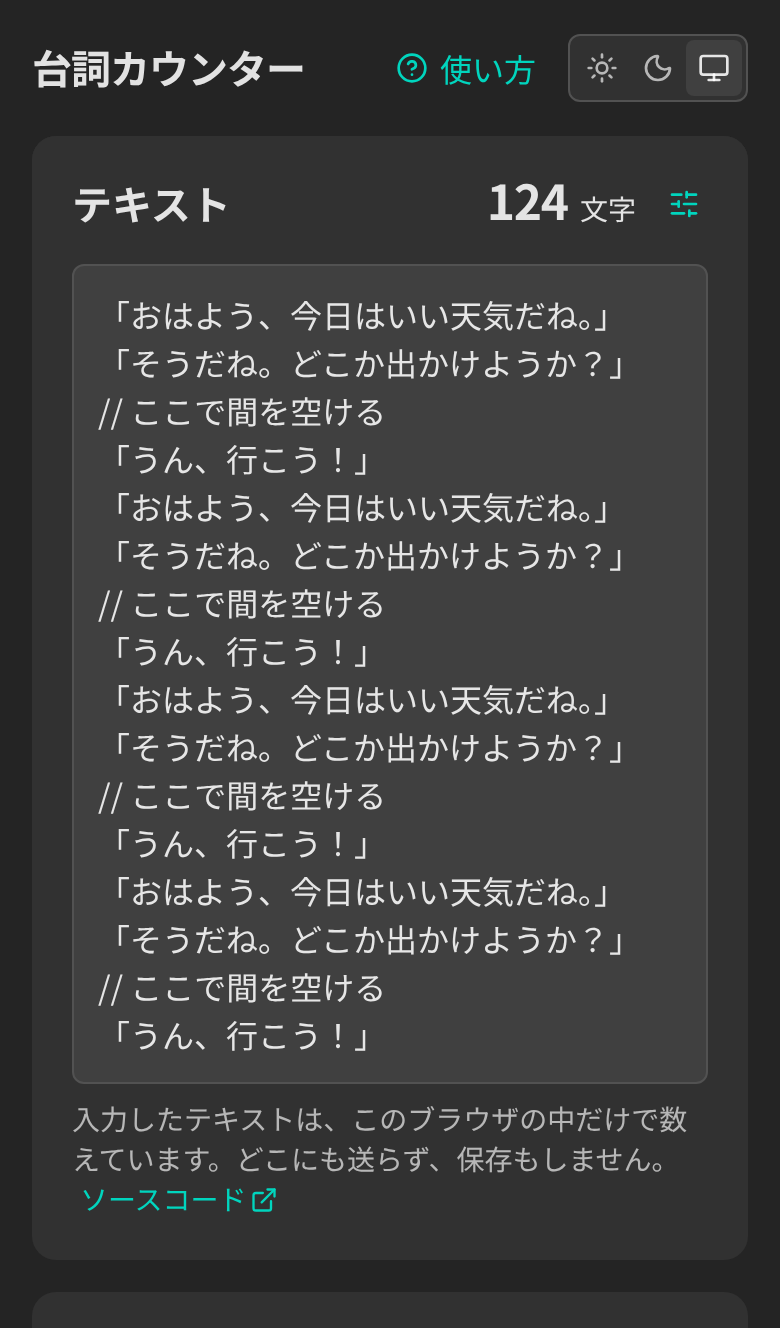
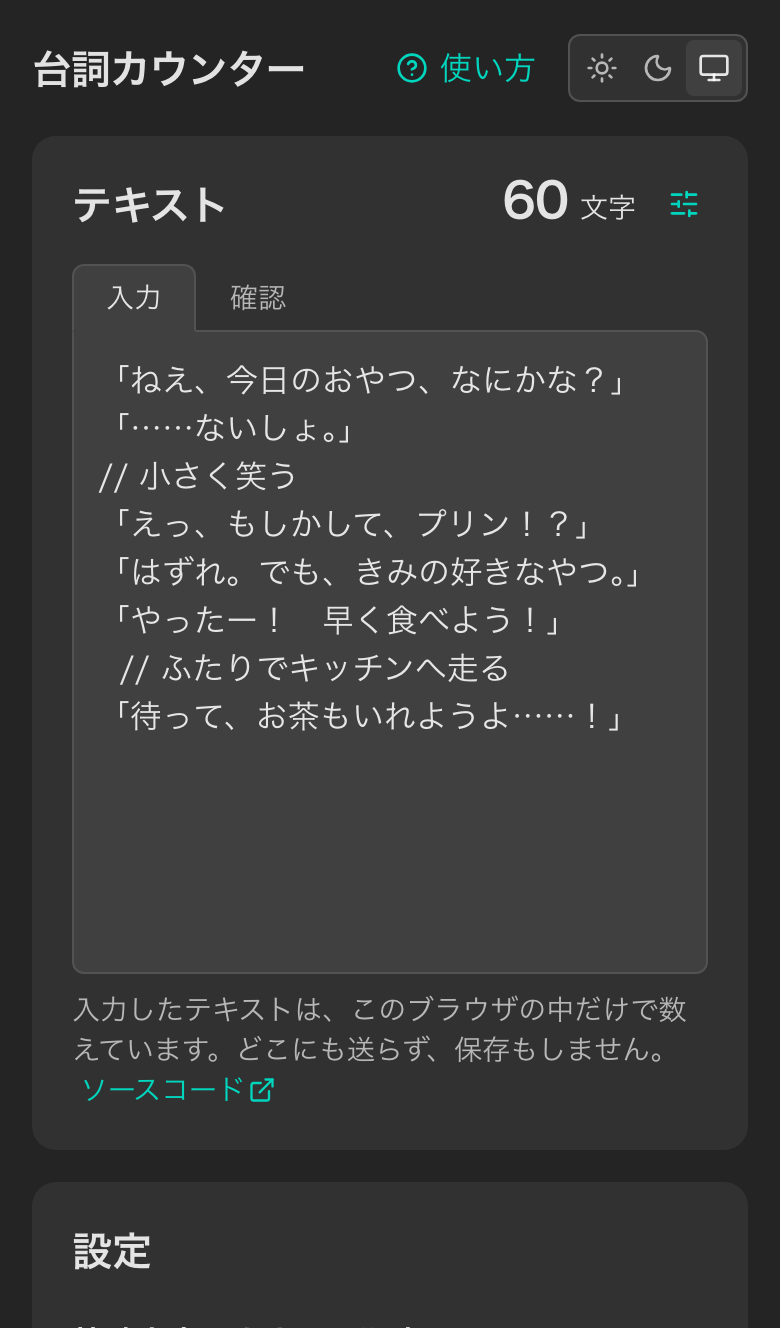
docs: README のスクリーンショットを、タブのある画面で撮り直す
- PC は「確認」を開き、数えない部分が薄くなるところを見せる。下の端が切れないように、ページ全体を撮る
- 例の台詞を、同じ台詞のくり返しから、短いやりとりに変える。数えない文字・行・インデントした行が入るようにする

diff --git a/README.md b/README.md
@@ -5,7 +5,7 @@
 https://dialogue-counter.web.app/
 
 <p>
-  <img src="docs/screenshot-pc.png" alt="PC の画面。左にテキスト、右に設定が並ぶ" width="640" />
+  <img src="docs/screenshot-pc.png" alt="PC の画面。左に、数えない部分を薄くした「確認」のテキスト、右に設定が並ぶ" width="640" />
   <img src="docs/screenshot-mobile.png" alt="スマホの画面。テキストの上に文字数が出る" width="180" />
 </p>
 
